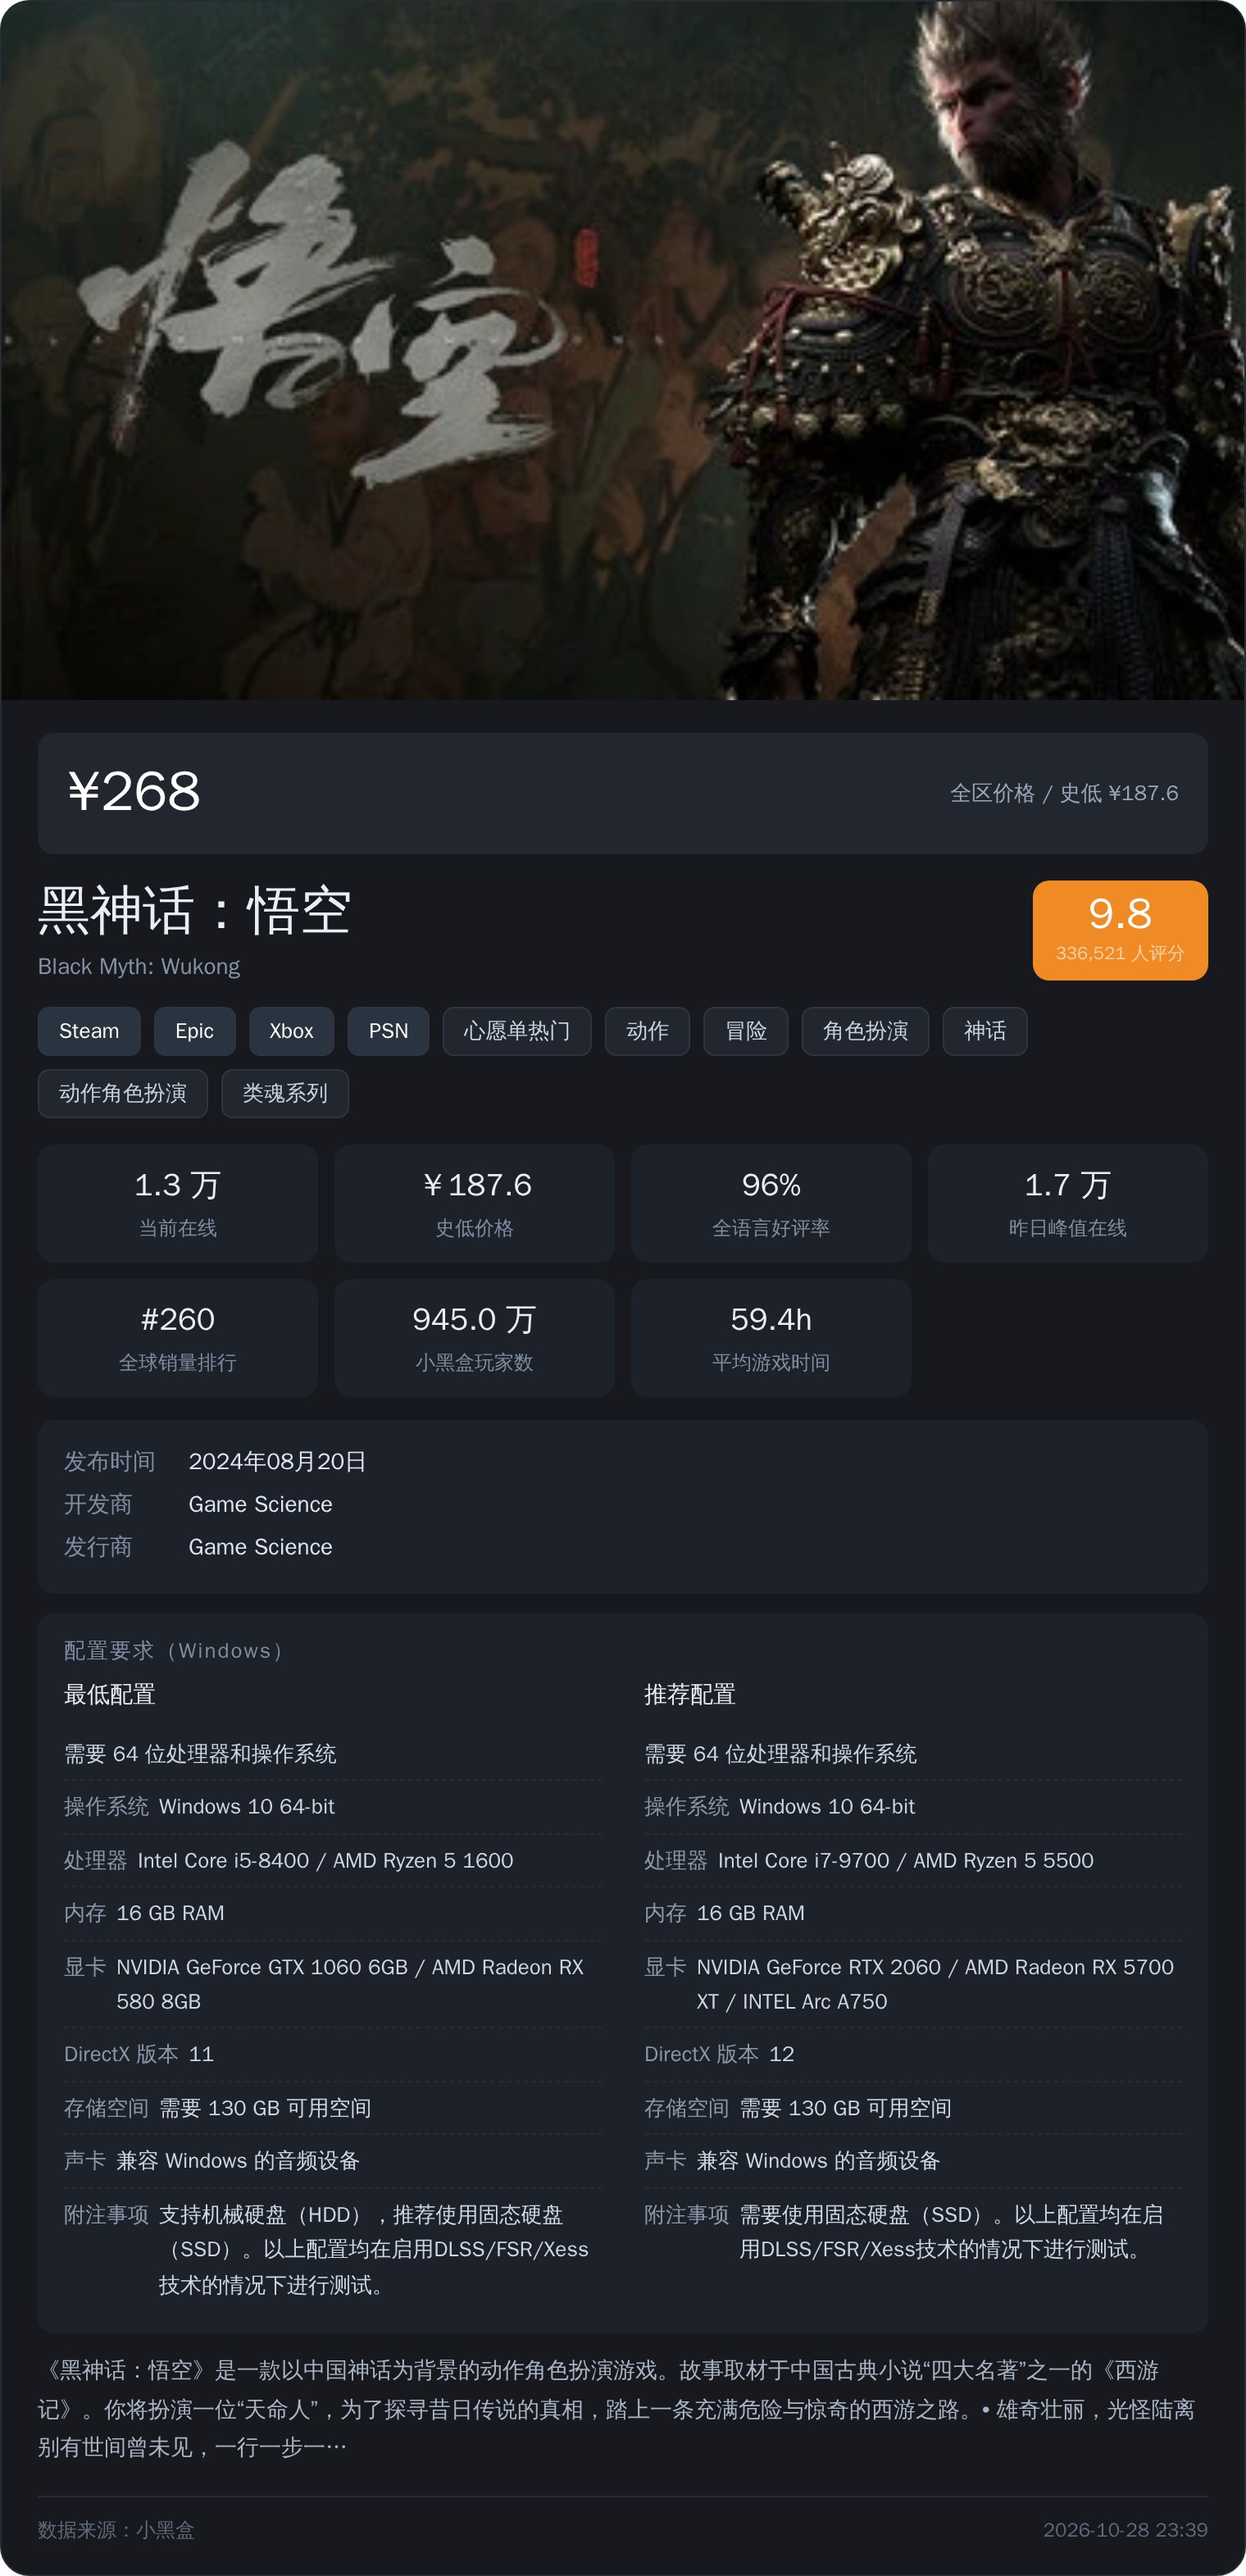
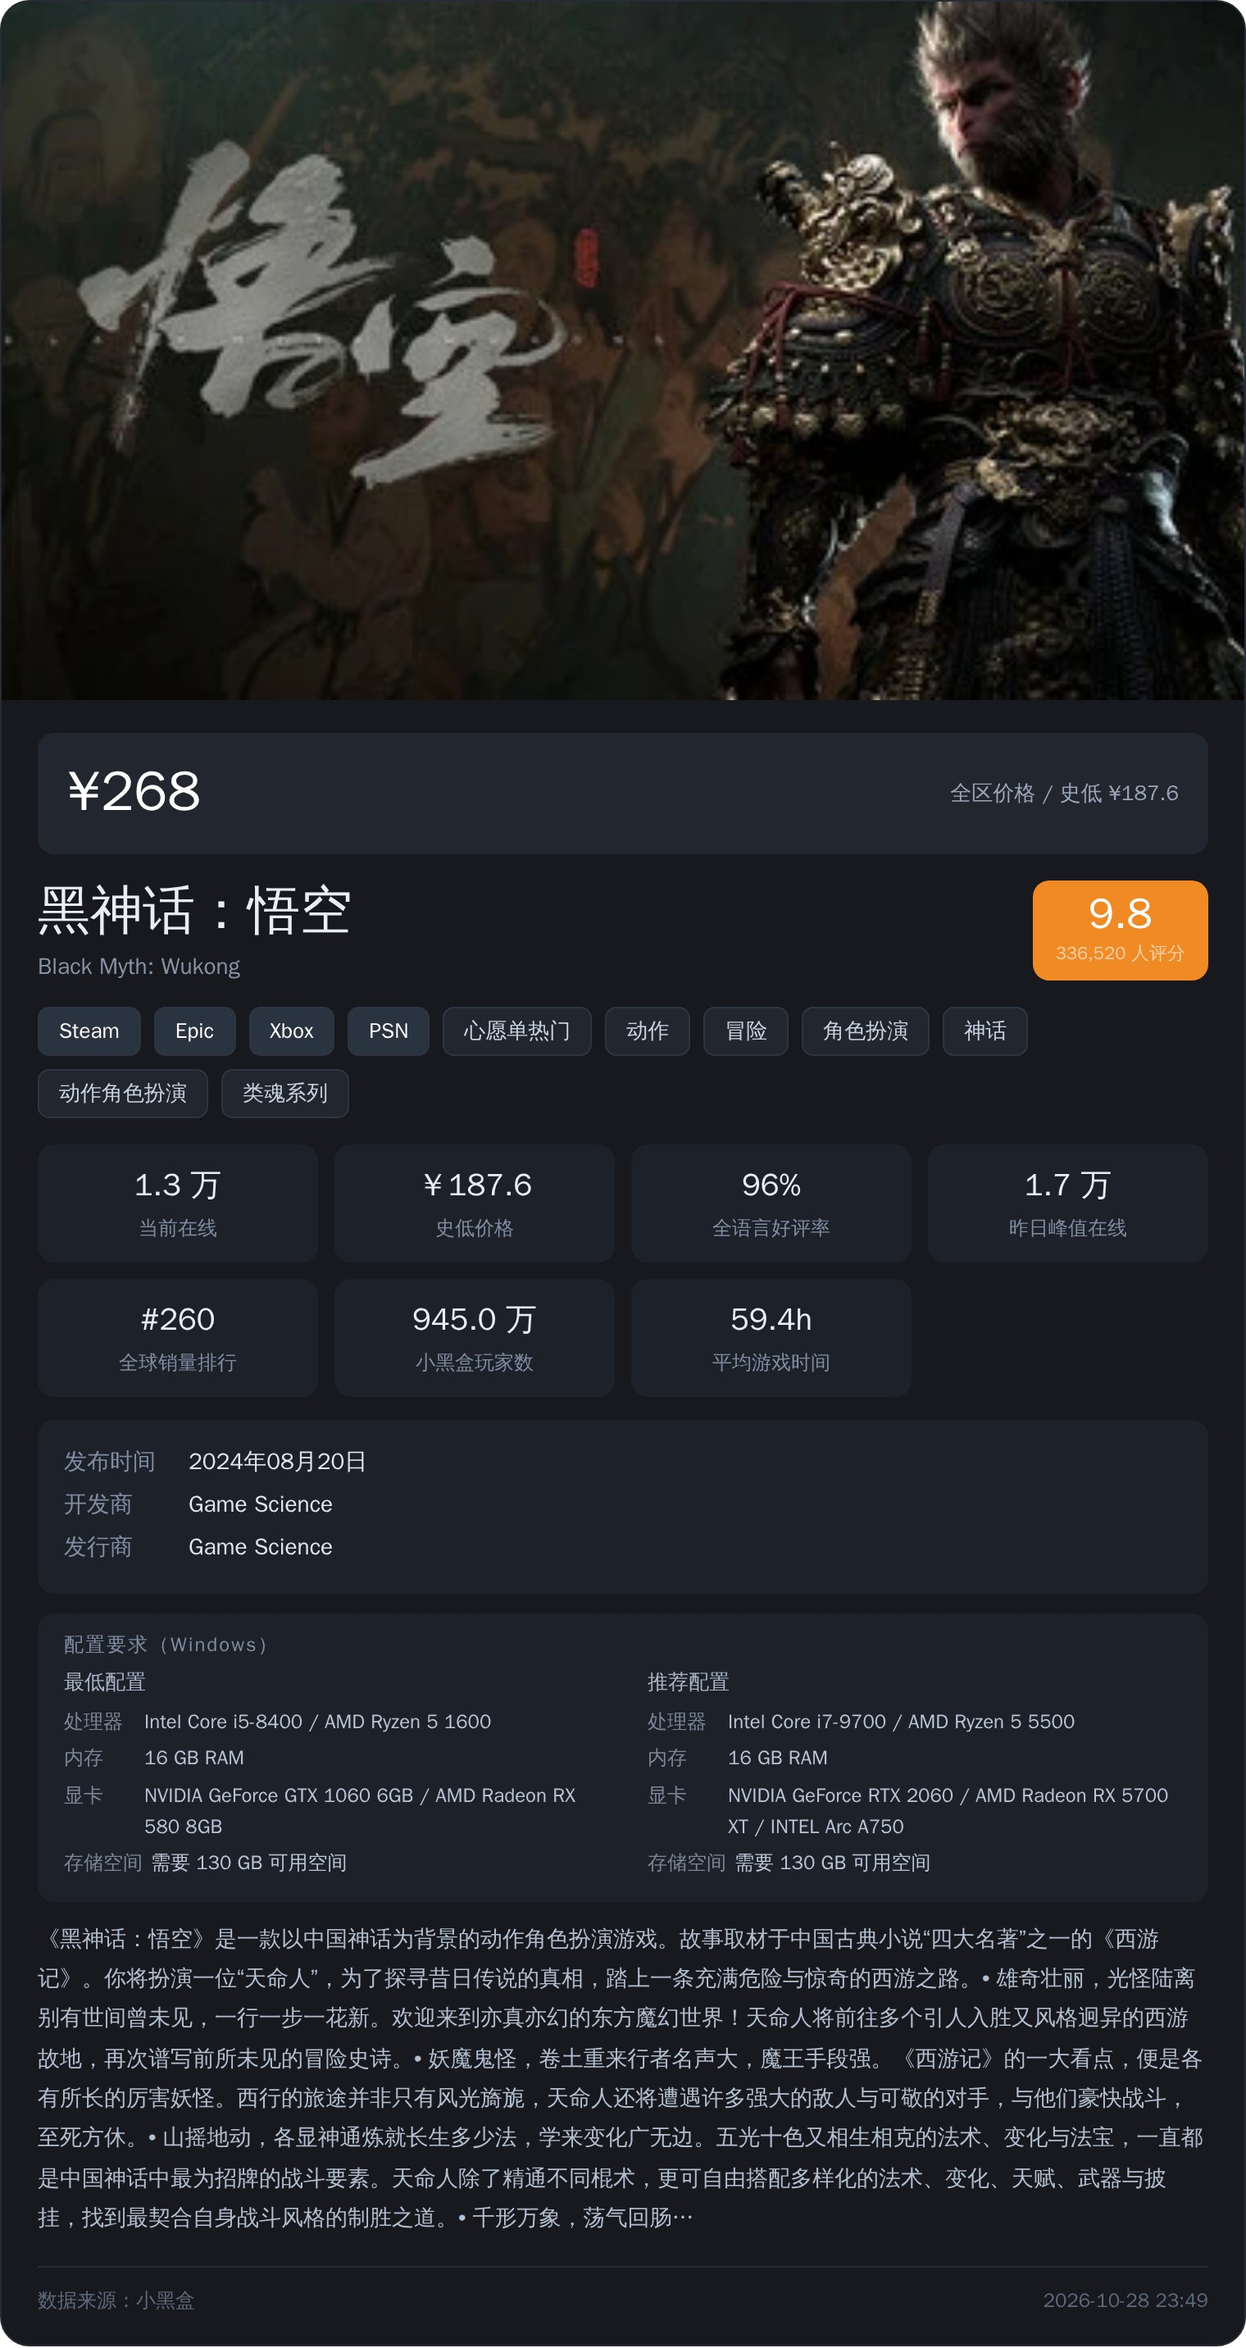
style: 配置要求改为紧凑三行式，简介默认 400 字

diff --git a/core/card.py b/core/card.py
@@ -124,7 +124,8 @@ def build_card(
     requirements: dict[str, Any] | None = None,
     max_regions: int = 5,
     max_tags: int = 8,
-    intro_length: int = 120,
+    intro_length: int = 400,
+    req_mode: str = "compact",
 ) -> CardData:
     detail = detail or {}
     price = detail.get("price") or {}
@@ -202,8 +203,20 @@ def build_card(
     card.sales = build_sales(history.get("prices") or [])
 
     req = requirements or {}
-    card.req_min = list(req.get("minimum") or [])
-    card.req_rec = list(req.get("recommended") or [])
+    req_mode = (req_mode or "compact").lower()
+    keep_keys = ("操作系统", "处理器", "内存", "显卡", "存储空间")
+    compact_keys = ("处理器", "内存", "显卡", "存储空间")
+
+    def pick(rows: list[tuple[str, str]]) -> list[tuple[str, str]]:
+        if req_mode == "full":
+            return rows
+        keys = compact_keys if req_mode == "compact" else keep_keys
+        picked = [(k, v) for k, v in rows if k in keys]
+        return picked or rows[:4]
+
+    if req_mode != "off":
+        card.req_min = pick(list(req.get("minimum") or []))
+        card.req_rec = pick(list(req.get("recommended") or []))
     if not card.developers:
         card.developers = ", ".join(req.get("developers") or [])
     if not card.publishers:
@@ -267,17 +280,15 @@ body { background:transparent; font-family:'WenQuanYi Zen Hei','Noto Sans CJK SC
 .meta .row { display:flex; font-size:14px; padding:4px 0; }
 .meta .k { width:76px; color:#7f8da2; flex:none; }
 .meta .v { color:#dfe7f2; }
-.req { margin-top:12px; background:#1d2129; border-radius:10px; padding:14px 16px; }
-.req h4 { font-size:13px; color:#7f8da2; font-weight:600; margin-bottom:8px; letter-spacing:1px; }
-.req-cols { display:grid; grid-template-columns:1fr 1fr; gap:0 26px; }
-.req-col h5 { font-size:14px; color:#e9eef6; font-weight:700; margin:2px 0 10px; }
-.req-row { display:flex; gap:6px; font-size:13px; line-height:1.65; padding:5px 0;
-           border-bottom:1px dashed #262b34; color:#cdd7e5; }
-.req-row:last-child { border-bottom:none; }
-.req-k { color:#8b98ab; flex:none; }
+.req { margin-top:12px; background:#1d2129; border-radius:10px; padding:11px 16px 12px; }
+.req h4 { font-size:12px; color:#7f8da2; font-weight:600; margin-bottom:6px; letter-spacing:1px; }
+.req-cols { display:grid; grid-template-columns:1fr 1fr; gap:0 30px; }
+.req-col h5 { font-size:12.5px; color:#aab6c8; font-weight:700; margin:0 0 4px; }
+.req-row { display:flex; gap:5px; font-size:12px; line-height:1.55; padding:2px 0; color:#b9c5d6; }
+.req-k { color:#7b8798; flex:none; min-width:44px; }
 .req-v { flex:1; }
 .req .none { color:#6d7889; font-size:13px; }
-.intro { margin-top:12px; font-size:13.5px; color:#aab6c8; line-height:1.75; }
+.intro { margin-top:12px; font-size:13.5px; color:#b3bfd0; line-height:1.8; }
 .footer { display:flex; justify-content:space-between; font-size:12px; color:#5e6a7c;
           margin-top:16px; padding-top:12px; border-top:1px solid #262b34; }
 """

diff --git a/main.py b/main.py
@@ -179,7 +179,8 @@ class HeyboxGamePlugin(Star):
                 requirements,
                 int(self._cfg("max_regions", 5)),
                 int(self._cfg("max_tags", 8)),
-                int(self._cfg("intro_length", 120)),
+                int(self._cfg("intro_length", 400)),
+                str(self._cfg("req_mode", "compact")),
             )
             html = render_html(card)
             png = await render_png(html, int(self._cfg("render_width", 760)), float(self._cfg("render_scale", 2.0)))
